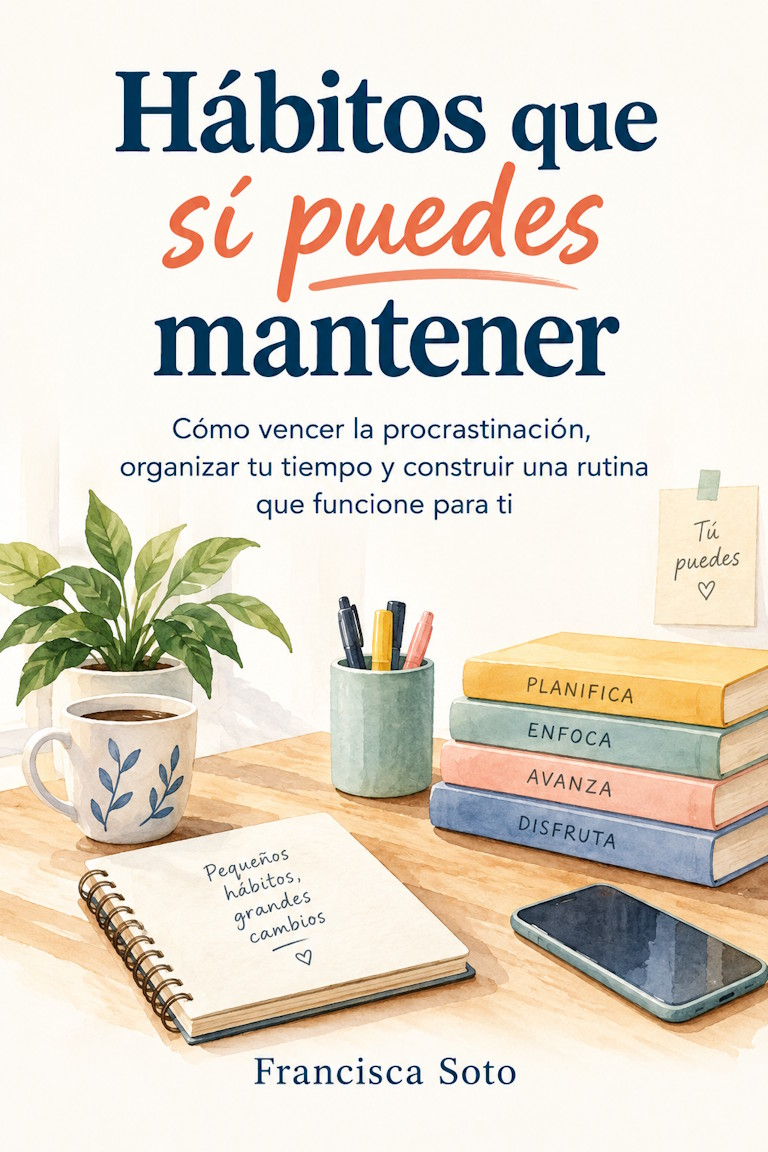
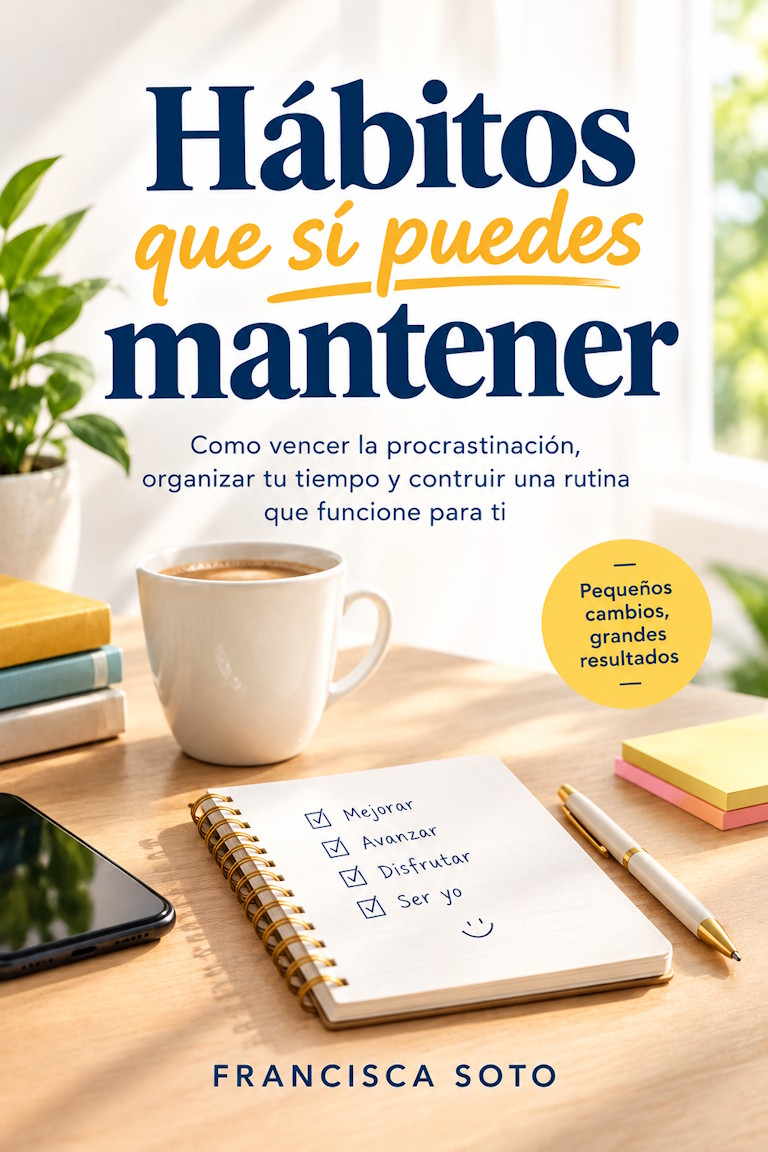
Minor update on Novedades section

diff --git a/docs/index.html b/docs/index.html
@@ -219,9 +219,7 @@
                     <p class="text-xs font-bold uppercase tracking-widest text-[#c9533d]">
                       Libro corto
                     </p>
-                    <time datetime="2026-05" class="text-xs font-medium text-[#625d57]"
-                      >Agosto 2026</time
-                    >
+                    <span class="text-xs font-medium text-[#625d57]">Edición</span>
                   </div>
                   <h3 class="mt-3 font-display text-2xl font-bold">Alguien que amas tiene TDAH</h3>
                   <p class="mt-3 text-sm leading-6 text-[#625d57]">
@@ -242,9 +240,7 @@
                 <div>
                   <div class="flex items-center justify-between gap-3">
                     <p class="text-xs font-bold uppercase tracking-widest text-[#c9533d]">Libro</p>
-                    <time datetime="2026-05" class="text-xs font-medium text-[#625d57]"
-                      >Septiembre 2026</time
-                    >
+                    <span class="text-xs font-medium text-[#625d57]">Traducción</span>
                   </div>
                   <h3 class="mt-3 font-display text-2xl font-bold">El yo perdonador</h3>
                   <p class="mt-3 text-sm leading-6 text-[#625d57]">
@@ -264,9 +260,7 @@
                 <div>
                   <div class="flex items-center justify-between gap-3">
                     <p class="text-xs font-bold uppercase tracking-widest text-[#c9533d]">Novela</p>
-                    <time datetime="2026-05" class="text-xs font-medium text-[#625d57]"
-                      >Julio 2026</time
-                    >
+                    <span class="text-xs font-medium text-[#625d57]">Traducción</span>
                   </div>
                   <h3 class="mt-3 font-display text-2xl font-bold">La mosca de patas largas</h3>
                   <p class="mt-3 text-sm leading-6 text-[#625d57]">
@@ -287,9 +281,7 @@
                 <div>
                   <div class="flex items-center justify-between gap-3">
                     <p class="text-xs font-bold uppercase tracking-widest text-[#c9533d]">Libro</p>
-                    <time datetime="2026-05" class="text-xs font-medium text-[#625d57]"
-                      >Mayo 2026</time
-                    >
+                    <span class="text-xs font-medium text-[#625d57]">Edición</span>
                   </div>
                   <h3 class="mt-3 font-display text-2xl font-bold">
                     Hábitos que sí puedes mantener
@@ -316,13 +308,11 @@
                     <p class="text-xs font-bold uppercase tracking-widest text-[#c9533d]">
                       Novedad
                     </p>
-                    <time datetime="2026-09" class="text-xs font-medium text-[#625d57]"
-                      >Marzo 2026</time
-                    >
+                    <span class="text-xs font-medium text-[#625d57]">Hito</span>
                   </div>
-                  <h3 class="mt-3 font-display text-2xl font-bold">¡100 artículos traducidos!</h3>
+                  <h3 class="mt-3 font-display text-2xl font-bold">¡200 artículos traducidos!</h3>
                   <p class="mt-3 text-sm leading-6 text-[#625d57]">
-                    Alcanzamos un nuevo hito: ya son 100 los artículos que hemos traducido. Un
+                    Alcanzamos un nuevo hito: ya son 200 los artículos que hemos traducido. Un
                     recorrido que nos permite acercar ideas, voces y conocimiento a nuevos lectores
                     y ampliar el alcance de cada contenido.
                   </p>
@@ -339,9 +329,7 @@
                 <div>
                   <div class="flex items-center justify-between gap-3">
                     <p class="text-xs font-bold uppercase tracking-widest text-[#c9533d]">Libro</p>
-                    <time datetime="2026-03" class="text-xs font-medium text-[#625d57]"
-                      >Febrero 2026</time
-                    >
+                    <span class="text-xs font-medium text-[#625d57]">Traducción</span>
                   </div>
                   <h3 class="mt-3 font-display text-2xl font-bold">Dejando ir la ira</h3>
                   <p class="mt-3 text-sm leading-6 text-[#625d57]">

diff --git a/index.html b/index.html
@@ -217,9 +217,7 @@
                     <p class="text-xs font-bold uppercase tracking-widest text-[#c9533d]">
                       Libro corto
                     </p>
-                    <time datetime="2026-05" class="text-xs font-medium text-[#625d57]"
-                      >Agosto 2026</time
-                    >
+                    <span class="text-xs font-medium text-[#625d57]">Edición</span>
                   </div>
                   <h3 class="mt-3 font-display text-2xl font-bold">Alguien que amas tiene TDAH</h3>
                   <p class="mt-3 text-sm leading-6 text-[#625d57]">
@@ -240,9 +238,7 @@
                 <div>
                   <div class="flex items-center justify-between gap-3">
                     <p class="text-xs font-bold uppercase tracking-widest text-[#c9533d]">Libro</p>
-                    <time datetime="2026-05" class="text-xs font-medium text-[#625d57]"
-                      >Septiembre 2026</time
-                    >
+                    <span class="text-xs font-medium text-[#625d57]">Traducción</span>
                   </div>
                   <h3 class="mt-3 font-display text-2xl font-bold">El yo perdonador</h3>
                   <p class="mt-3 text-sm leading-6 text-[#625d57]">
@@ -262,9 +258,7 @@
                 <div>
                   <div class="flex items-center justify-between gap-3">
                     <p class="text-xs font-bold uppercase tracking-widest text-[#c9533d]">Novela</p>
-                    <time datetime="2026-05" class="text-xs font-medium text-[#625d57]"
-                      >Julio 2026</time
-                    >
+                    <span class="text-xs font-medium text-[#625d57]">Traducción</span>
                   </div>
                   <h3 class="mt-3 font-display text-2xl font-bold">La mosca de patas largas</h3>
                   <p class="mt-3 text-sm leading-6 text-[#625d57]">
@@ -285,9 +279,7 @@
                 <div>
                   <div class="flex items-center justify-between gap-3">
                     <p class="text-xs font-bold uppercase tracking-widest text-[#c9533d]">Libro</p>
-                    <time datetime="2026-05" class="text-xs font-medium text-[#625d57]"
-                      >Mayo 2026</time
-                    >
+                    <span class="text-xs font-medium text-[#625d57]">Edición</span>
                   </div>
                   <h3 class="mt-3 font-display text-2xl font-bold">
                     Hábitos que sí puedes mantener
@@ -314,13 +306,11 @@
                     <p class="text-xs font-bold uppercase tracking-widest text-[#c9533d]">
                       Novedad
                     </p>
-                    <time datetime="2026-09" class="text-xs font-medium text-[#625d57]"
-                      >Marzo 2026</time
-                    >
+                    <span class="text-xs font-medium text-[#625d57]">Hito</span>
                   </div>
-                  <h3 class="mt-3 font-display text-2xl font-bold">¡100 artículos traducidos!</h3>
+                  <h3 class="mt-3 font-display text-2xl font-bold">¡200 artículos traducidos!</h3>
                   <p class="mt-3 text-sm leading-6 text-[#625d57]">
-                    Alcanzamos un nuevo hito: ya son 100 los artículos que hemos traducido. Un
+                    Alcanzamos un nuevo hito: ya son 200 los artículos que hemos traducido. Un
                     recorrido que nos permite acercar ideas, voces y conocimiento a nuevos lectores
                     y ampliar el alcance de cada contenido.
                   </p>
@@ -337,9 +327,7 @@
                 <div>
                   <div class="flex items-center justify-between gap-3">
                     <p class="text-xs font-bold uppercase tracking-widest text-[#c9533d]">Libro</p>
-                    <time datetime="2026-03" class="text-xs font-medium text-[#625d57]"
-                      >Febrero 2026</time
-                    >
+                    <span class="text-xs font-medium text-[#625d57]">Traducción</span>
                   </div>
                   <h3 class="mt-3 font-display text-2xl font-bold">Dejando ir la ira</h3>
                   <p class="mt-3 text-sm leading-6 text-[#625d57]">
